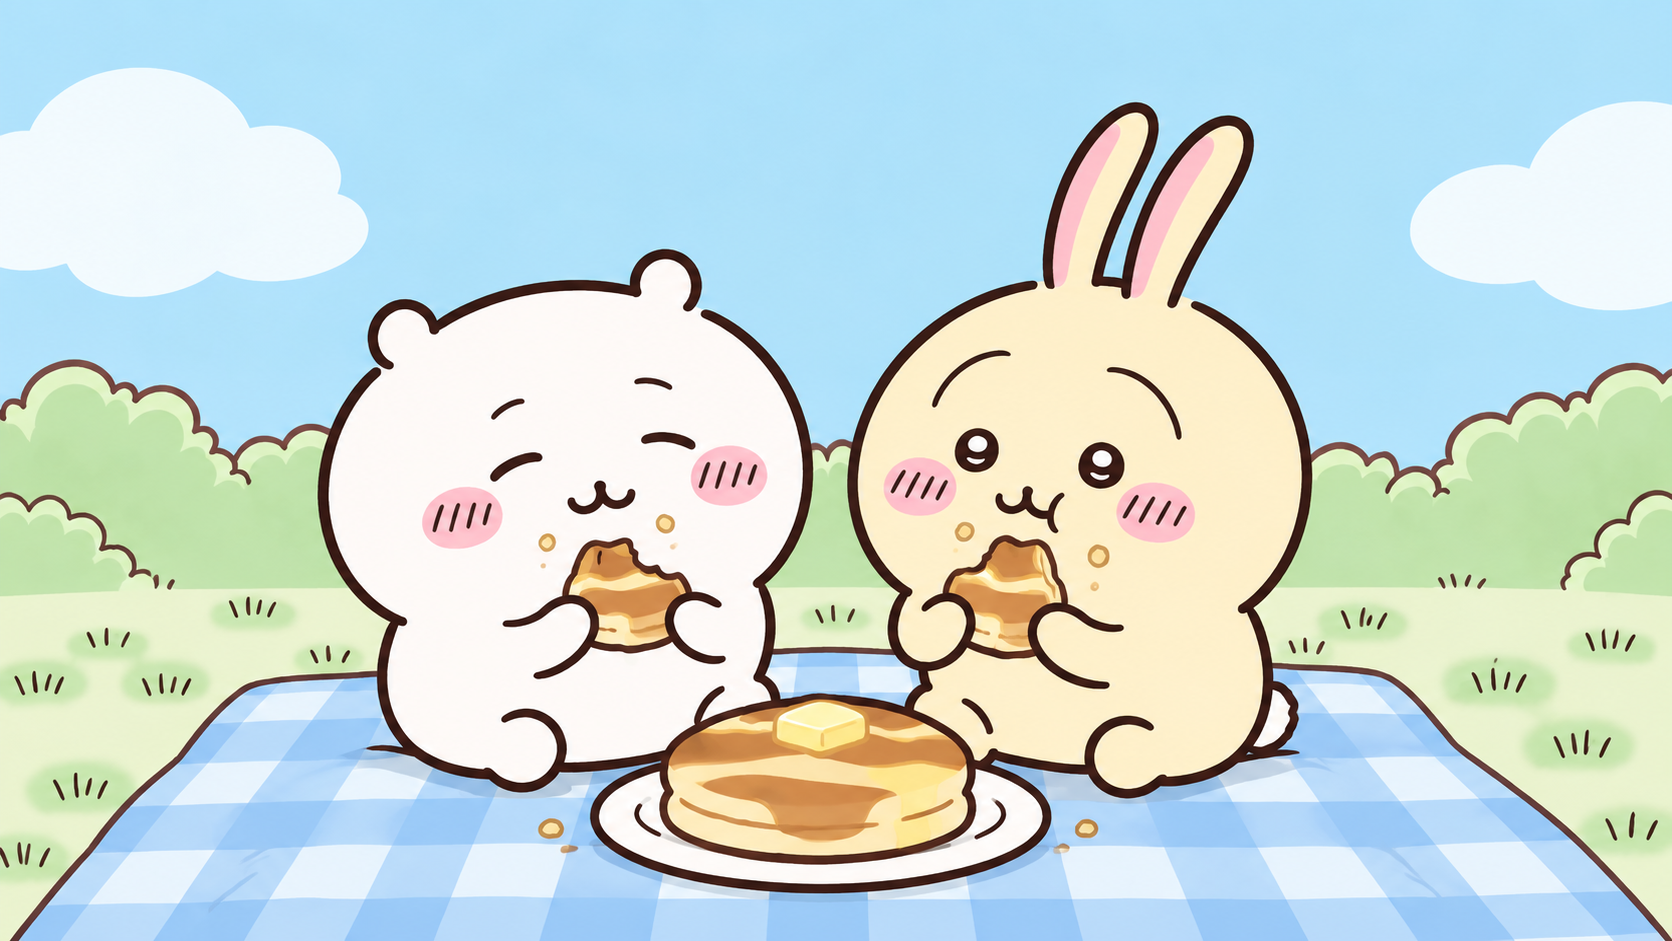
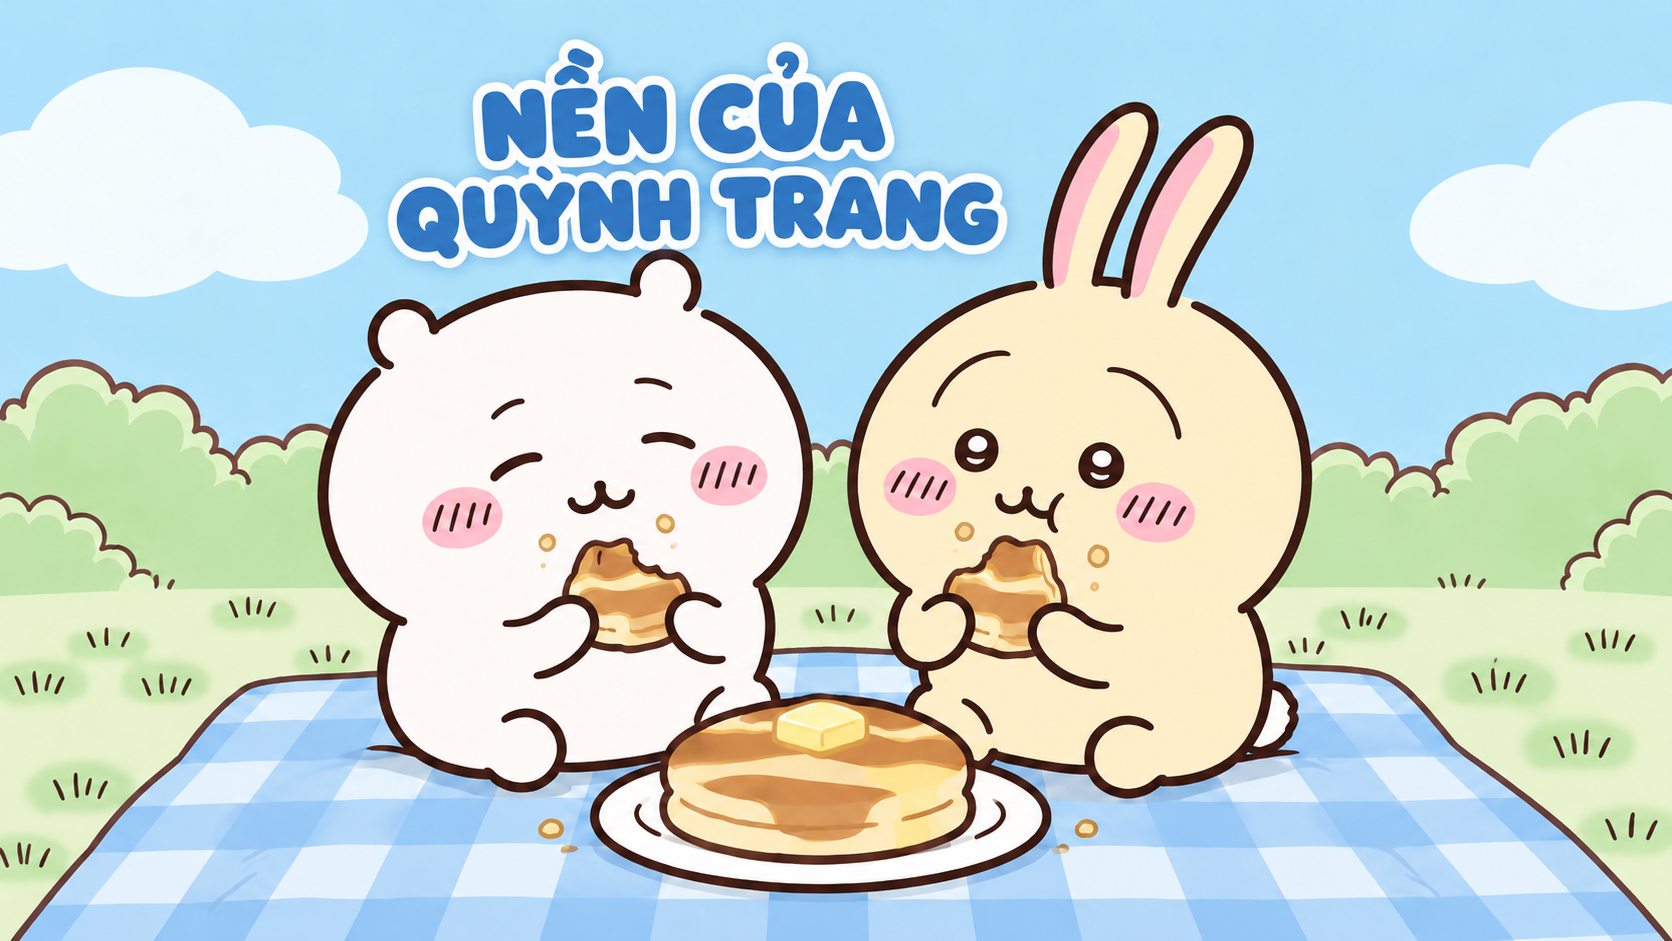
[ERP] Đổi tên nền riêng NS009 thành "Nền của Quỳnh Trang"

Changed region(s): [[0.2177, 0.0308, 0.622, 0.3082], [0.9952, 0.9862, 1.0, 1.0], [0.933, 0.7705, 0.9641, 0.8013]]

diff --git a/src/lib/erpSkin.ts b/src/lib/erpSkin.ts
@@ -69,7 +69,7 @@ export const NEN_ERP: NenErp[] = [
   { id: 'erp_lang_bk', ten: 'Làng BK', url: '/bk-ui/erp/nen/lang_bk.jpg' },
   // Hình riêng theo order — thêm 1 dòng/ảnh (nén bằng `node scripts/erp-nen-ca-nhan.mjs`)
   { id: 'erp_cn_ns002', ten: 'Của tôi', url: '/bk-ui/erp/nen/ca-nhan/ns002.jpg', rieng_cho: ['NS002'] },
-  { id: 'erp_cn_ns009', ten: 'Của tôi', url: '/bk-ui/erp/nen/ca-nhan/ns009.jpg', rieng_cho: ['NS009'] },
+  { id: 'erp_cn_ns009', ten: 'Nền của Quỳnh Trang', url: '/bk-ui/erp/nen/ca-nhan/ns009.jpg', rieng_cho: ['NS009'] },
 ]
 // Hình nền người này được thấy (dùng chung + hình riêng của đúng mã nhân sự).
 export const nenErpCho = (maNs: string | null | undefined): NenErp[] =>
